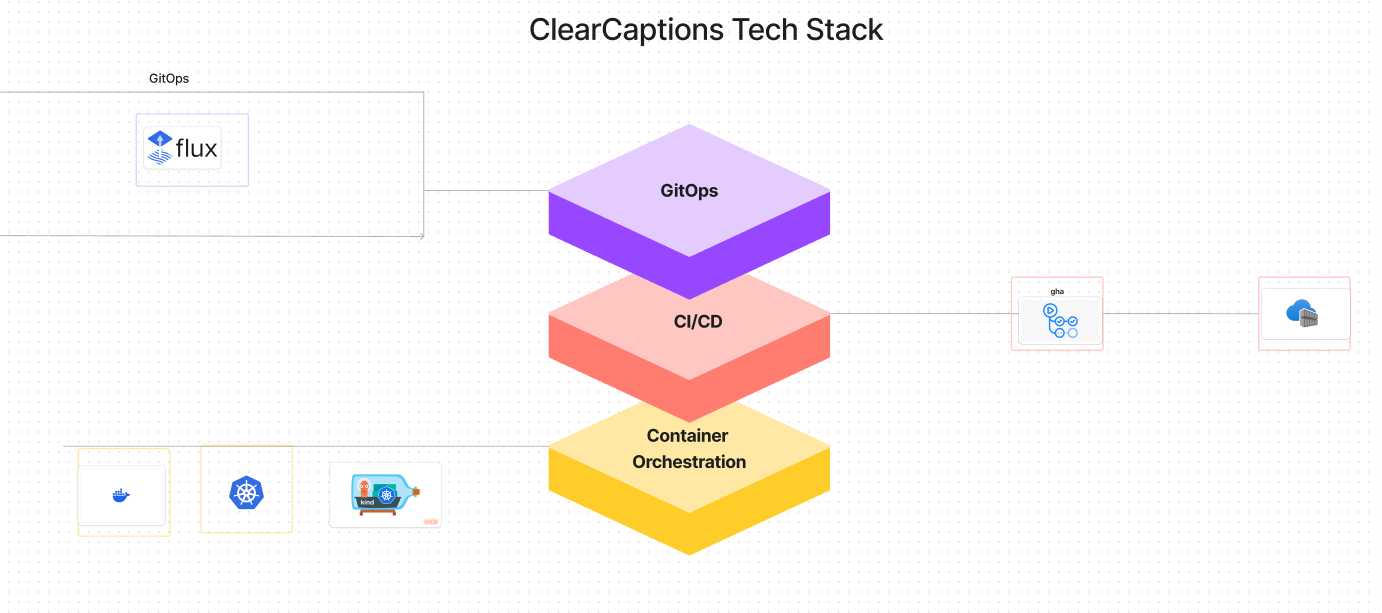
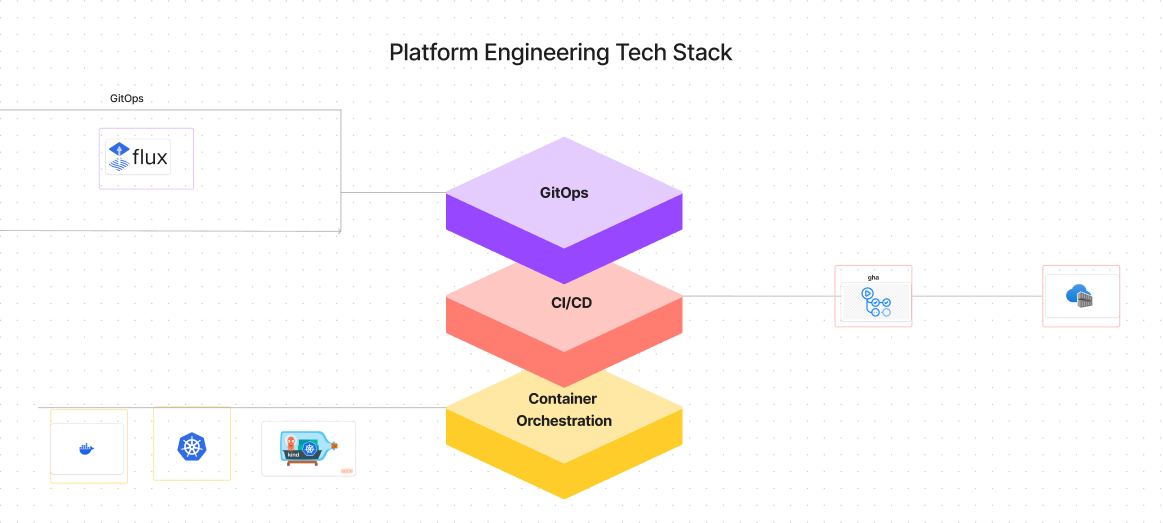
updated formating final

diff --git a/docs/GHA_Selfhosted_Runner_Setup.md b/docs/GHA_Selfhosted_Runner_Setup.md
@@ -31,8 +31,6 @@
 
 ## High Level Architecture
 
-Tech Stack:-
-
 ![Tech Stack](./images/GHA-Runner-Techstack.png "Tech Stack")
 
 ## Create kind k8's cluster for runner
